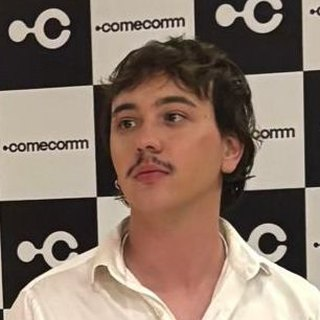
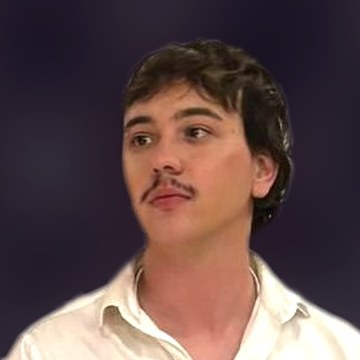
Refaz as fotos do time: fundo unificado e retratos grandes
As três fotos vinham de câmeras e cenários diferentes — fundo xadrez de
evento, cinza de estúdio e escritório desfocado. Lado a lado pareciam três
sites, não um time. E os selos de 80px no hero eram pequenos demais pra
servir de prova.

Tratamento das imagens (rembg + Pillow):

- Máscara de recorte pelo isnet-general-use, limpa com o maior componente
  conexo — a da Paloma trazia um borrão de fundo solto.
- A máscara desfoca e escurece o FUNDO em vez de recortar a pessoa. Recorte
  duro deixava halo branco e cortava a Bárbara em retângulo; no desfoque,
  erro de máscara não aparece, e o xadrez para de competir com o rosto.
- Exposição equalizada entre as três, olhos a 38% da altura, cabeça em
  ~46-50% do quadro nas três.
- Retrato 4:5 a 680x850 e quadrado 360x360. Só quem foi ampliado leva
  máscara de nitidez, proporcional ao fator.

Layout:

- Hero: os selos viram retratos 4:5 (108px no celular, 163px no desktop).
- Quem somos: cartão em 4:5 com o nome em 20/24px, e o carrossel do celular
  passa de 78% pra 85% da largura.

Fotos somam 244 KB, 34 KB a menos que antes.

Também troca o WhatsApp para 55169920093456.

Claude-Session: https://claude.ai/code/session_013MHVSDBgg9FKWtKmTCT6uj

diff --git a/agencia/src/components/About.tsx b/agencia/src/components/About.tsx
@@ -28,35 +28,36 @@ export function About() {
             <Reveal
               key={pessoa.nome}
               delay={0.08 + i * 0.07}
-              className="h-full w-[78%] shrink-0 snap-center sm:w-[56%] md:w-auto"
+              className="h-full w-[85%] shrink-0 snap-center sm:w-[60%] md:w-auto"
             >
-              <div className="group flex h-full flex-col overflow-hidden rounded-3xl border border-white/[0.08] bg-surface transition-colors hover:border-white/20">
-                {/* A foto é o cartão. Nome e profissão vão por cima dela, no
-                    degradê, pra não empurrar a bio pra fora da tela. As três
-                    fotos vêm de câmeras e fundos diferentes: a saturação
-                    contida faz elas lerem como um conjunto. */}
-                <div className="relative aspect-[3/4] overflow-hidden bg-surface-2">
+              <div className="group flex h-full flex-col overflow-hidden rounded-3xl border border-white/[0.08] bg-surface transition-colors hover:border-violet-400/40">
+                {/* A foto é o cartão. Nome e papel vão por cima dela, no
+                    degradê, pra não empurrar a bio pra fora da tela. O fundo
+                    das três já foi desfocado e puxado pro tom do site na
+                    exportação: elas vieram de câmeras e cenários diferentes e
+                    precisavam ler como um conjunto. */}
+                <div className="relative aspect-[4/5] overflow-hidden bg-surface-2">
                   <img
                     src={pessoa.foto}
                     alt={`Retrato de ${pessoa.nome}`}
-                    width={660}
-                    height={880}
+                    width={680}
+                    height={850}
                     loading="lazy"
                     decoding="async"
-                    className="h-full w-full object-cover saturate-[0.9] transition-transform duration-500 group-hover:scale-[1.03]"
+                    className="h-full w-full object-cover transition-transform duration-500 group-hover:scale-[1.04]"
                   />
-                  <div className="absolute inset-x-0 bottom-0 bg-gradient-to-t from-ink via-ink/75 to-transparent px-5 pb-5 pt-16">
-                    <p className="font-display text-lg font-bold leading-tight text-white">
+                  <div className="absolute inset-x-0 bottom-0 bg-gradient-to-t from-ink via-ink/80 to-transparent px-5 pb-5 pt-20">
+                    <p className="font-display text-xl font-extrabold leading-tight tracking-tight text-white sm:text-2xl">
                       {pessoa.nome}
                     </p>
-                    <p className="mt-1 text-xs font-semibold leading-snug text-violet-300">
+                    <p className="mt-1.5 text-xs font-semibold leading-snug text-violet-300">
                       {pessoa.papel}
                     </p>
                   </div>
                 </div>
 
-                <div className="flex flex-1 flex-col p-5">
-                  <p className="flex-1 text-xs leading-relaxed text-white/55">{pessoa.bio}</p>
+                <div className="flex flex-1 flex-col p-5 sm:p-6">
+                  <p className="flex-1 text-[13px] leading-relaxed text-white/55">{pessoa.bio}</p>
                 </div>
               </div>
             </Reveal>

diff --git a/agencia/src/components/FaixaTime.tsx b/agencia/src/components/FaixaTime.tsx
@@ -7,32 +7,30 @@ import { TIME } from "../data/content";
  * com um template. Ver três pessoas com nome e profissão resolve isso antes
  * de qualquer texto — e é o tipo de prova que um concorrente não copia.
  *
- * As fotos são `eager`: estão na primeira tela, então adiar o download só
- * faria o bloco piscar vazio. São 55 KB no total, cabe.
+ * Retrato 4:5, não avatar redondo de 48px: um selo pequeno some no meio do
+ * hero e não convence ninguém. Aqui a foto é grande o bastante pra você
+ * reconhecer a pessoa se cruzar com ela na rua.
  */
 export function FaixaTime() {
   return (
     <div className="mt-9 border-t border-white/[0.08] pt-6 lg:mt-10">
-      <p className="text-[10px] font-bold uppercase tracking-widest text-white/35">
-        Quem faz
-      </p>
+      <p className="text-[10px] font-bold uppercase tracking-widest text-white/35">Quem faz</p>
 
-      {/* Empilhado nos três tamanhos. Na horizontal, "Engenheiro de Software"
-          quebrava em três linhas ao lado de uma foto de 48px — o nome ficava
-          espremido e a foto, pequena demais pra servir de prova. */}
-      <ul className="mt-4 grid grid-cols-3 gap-3 sm:gap-6">
+      <ul className="mt-4 grid grid-cols-3 gap-2.5 sm:gap-4">
         {TIME.map((pessoa) => (
-          <li key={pessoa.nome} className="flex flex-col items-center text-center">
-            <img
-              src={pessoa.fotoQuadrada}
-              alt={`Foto de ${pessoa.nome}`}
-              width={320}
-              height={320}
-              loading="eager"
-              decoding="async"
-              className="h-20 w-20 shrink-0 rounded-2xl border border-white/12 object-cover saturate-[0.9] sm:h-24 sm:w-24"
-            />
-            <p className="mt-2.5 text-xs font-bold leading-tight text-white sm:text-[13px]">
+          <li key={pessoa.nome} className="group">
+            <div className="relative overflow-hidden rounded-2xl border border-white/[0.08] bg-surface-2">
+              <img
+                src={pessoa.foto}
+                alt={`Foto de ${pessoa.nome}`}
+                width={680}
+                height={850}
+                loading="eager"
+                decoding="async"
+                className="aspect-[4/5] w-full object-cover transition-transform duration-500 group-hover:scale-[1.04]"
+              />
+            </div>
+            <p className="mt-2.5 text-xs font-bold leading-tight text-white sm:text-sm">
               {pessoa.nome}
             </p>
             <p className="mt-1 text-[11px] leading-tight text-white/45">{pessoa.profissao}</p>

diff --git a/agencia/src/components/Footer.tsx b/agencia/src/components/Footer.tsx
@@ -82,8 +82,8 @@ export function Footer() {
                 <img
                   src={pessoa.fotoQuadrada}
                   alt={`Foto de ${pessoa.nome}`}
-                  width={320}
-                  height={320}
+                  width={360}
+                  height={360}
                   loading="lazy"
                   decoding="async"
                   className="h-9 w-9 shrink-0 rounded-lg border border-white/10 object-cover"

diff --git a/agencia/src/data/content.ts b/agencia/src/data/content.ts
@@ -5,7 +5,7 @@ export const AGENCIA = {
   nomeCompleto: "BEPA Consultoria, Assessoria e Serviços",
   iniciais: "B",
   tagline: "Consultoria, Assessoria e Serviços",
-  whatsapp: "5516994447044",
+  whatsapp: "55169920093456",
   mensagemPadrao: "Oi! Vi o site de vocês e quero entender como posso digitalizar meu negócio.",
   email: "contato@bepa.com.br",
   // Guardados, mas fora do ar por decisão de conteúdo: nenhuma tela
